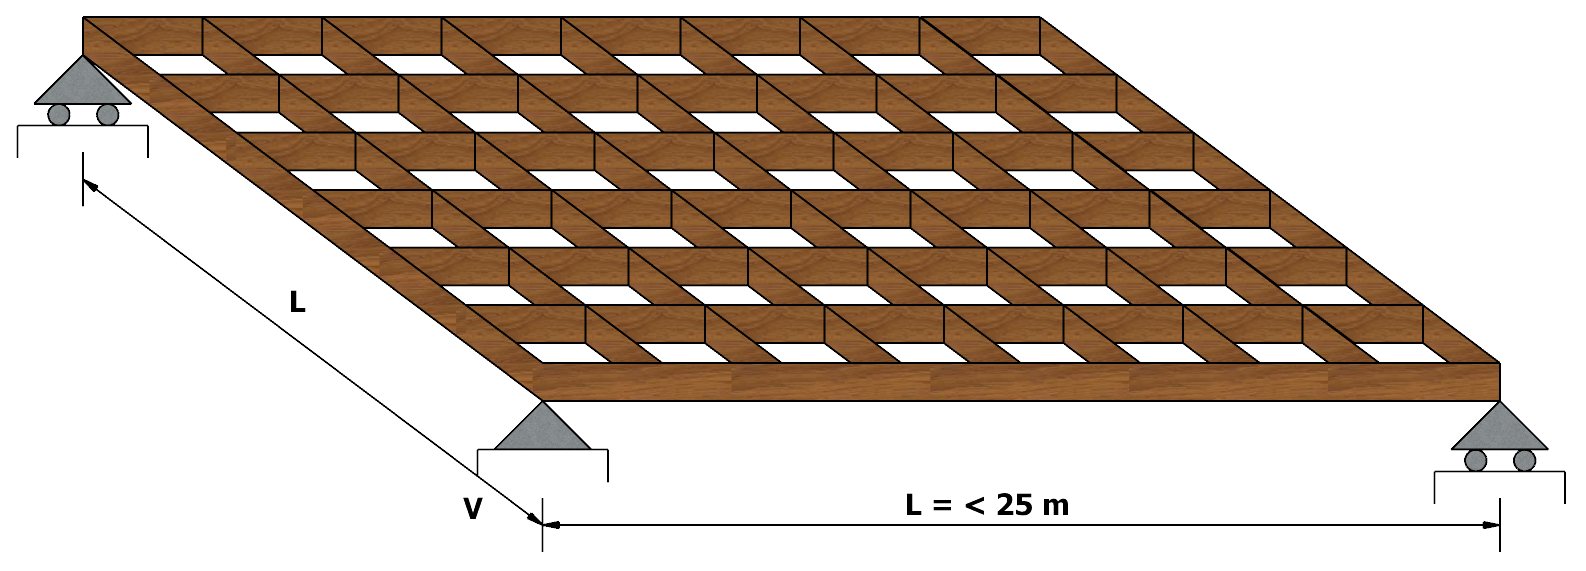
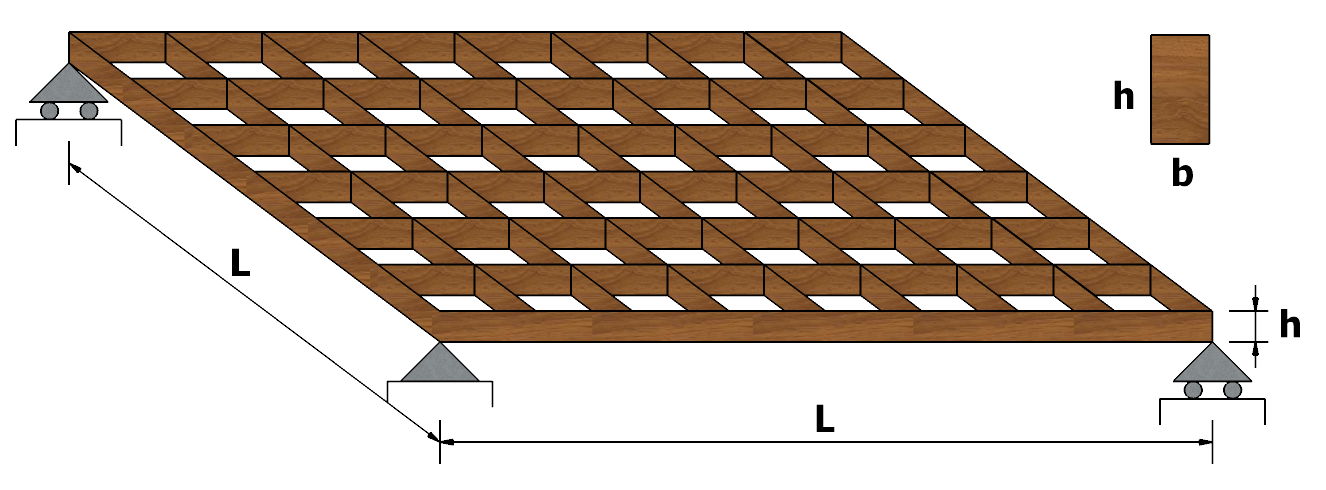
Beta v1.2.1

diff --git a/src/PortalDePecas.js b/src/PortalDePecas.js
@@ -10,6 +10,7 @@ import TrelicaMLC from "./imagens/trelica-em-mlc.png";
 import Tesoura2MLC from "./imagens/tesoura-em-mlc-2.png";
 import ArcoMLC from "./imagens/arco-em-mlc.png";
 import Grelha from "./imagens/grelha-em-mlc.png";
+import ImgVigaVagao from "./imagens/viga-vagao-mlc.png";
 import PorticoCTiranteMLC from "./imagens/portico-c-tirante-em-mlc.png";
 import PorticoMLC from "./imagens/portico-em-mlc.png"; 
 import Triplas from "./Peças/Triplas";
@@ -36,7 +37,7 @@ class PortalDePecas extends React.Component {
 			pieces: [
 				{name: "Viga Bi-apoiada (MLC)", group: "vigas", description: "vigasDescricao", component: "Triplas", image: vigaBiApMLC },
 
-				{name: "Viga vagão (MLC)", group: "vigas", description: "vigasDescricao", component: "VigaVagao", image: vigaBiApMLC},
+				{name: "Viga vagão (MLC)", group: "vigas", description: "vigasDescricao", component: "VigaVagao", image: ImgVigaVagao},
 				
 				{name: "Viga em duas águas (MLC)", group: "vigas",description: "vigasDescricao", component: "VigaComDuasAguas", image: vigaBiApCorteDuasAguasMLC},
 				
